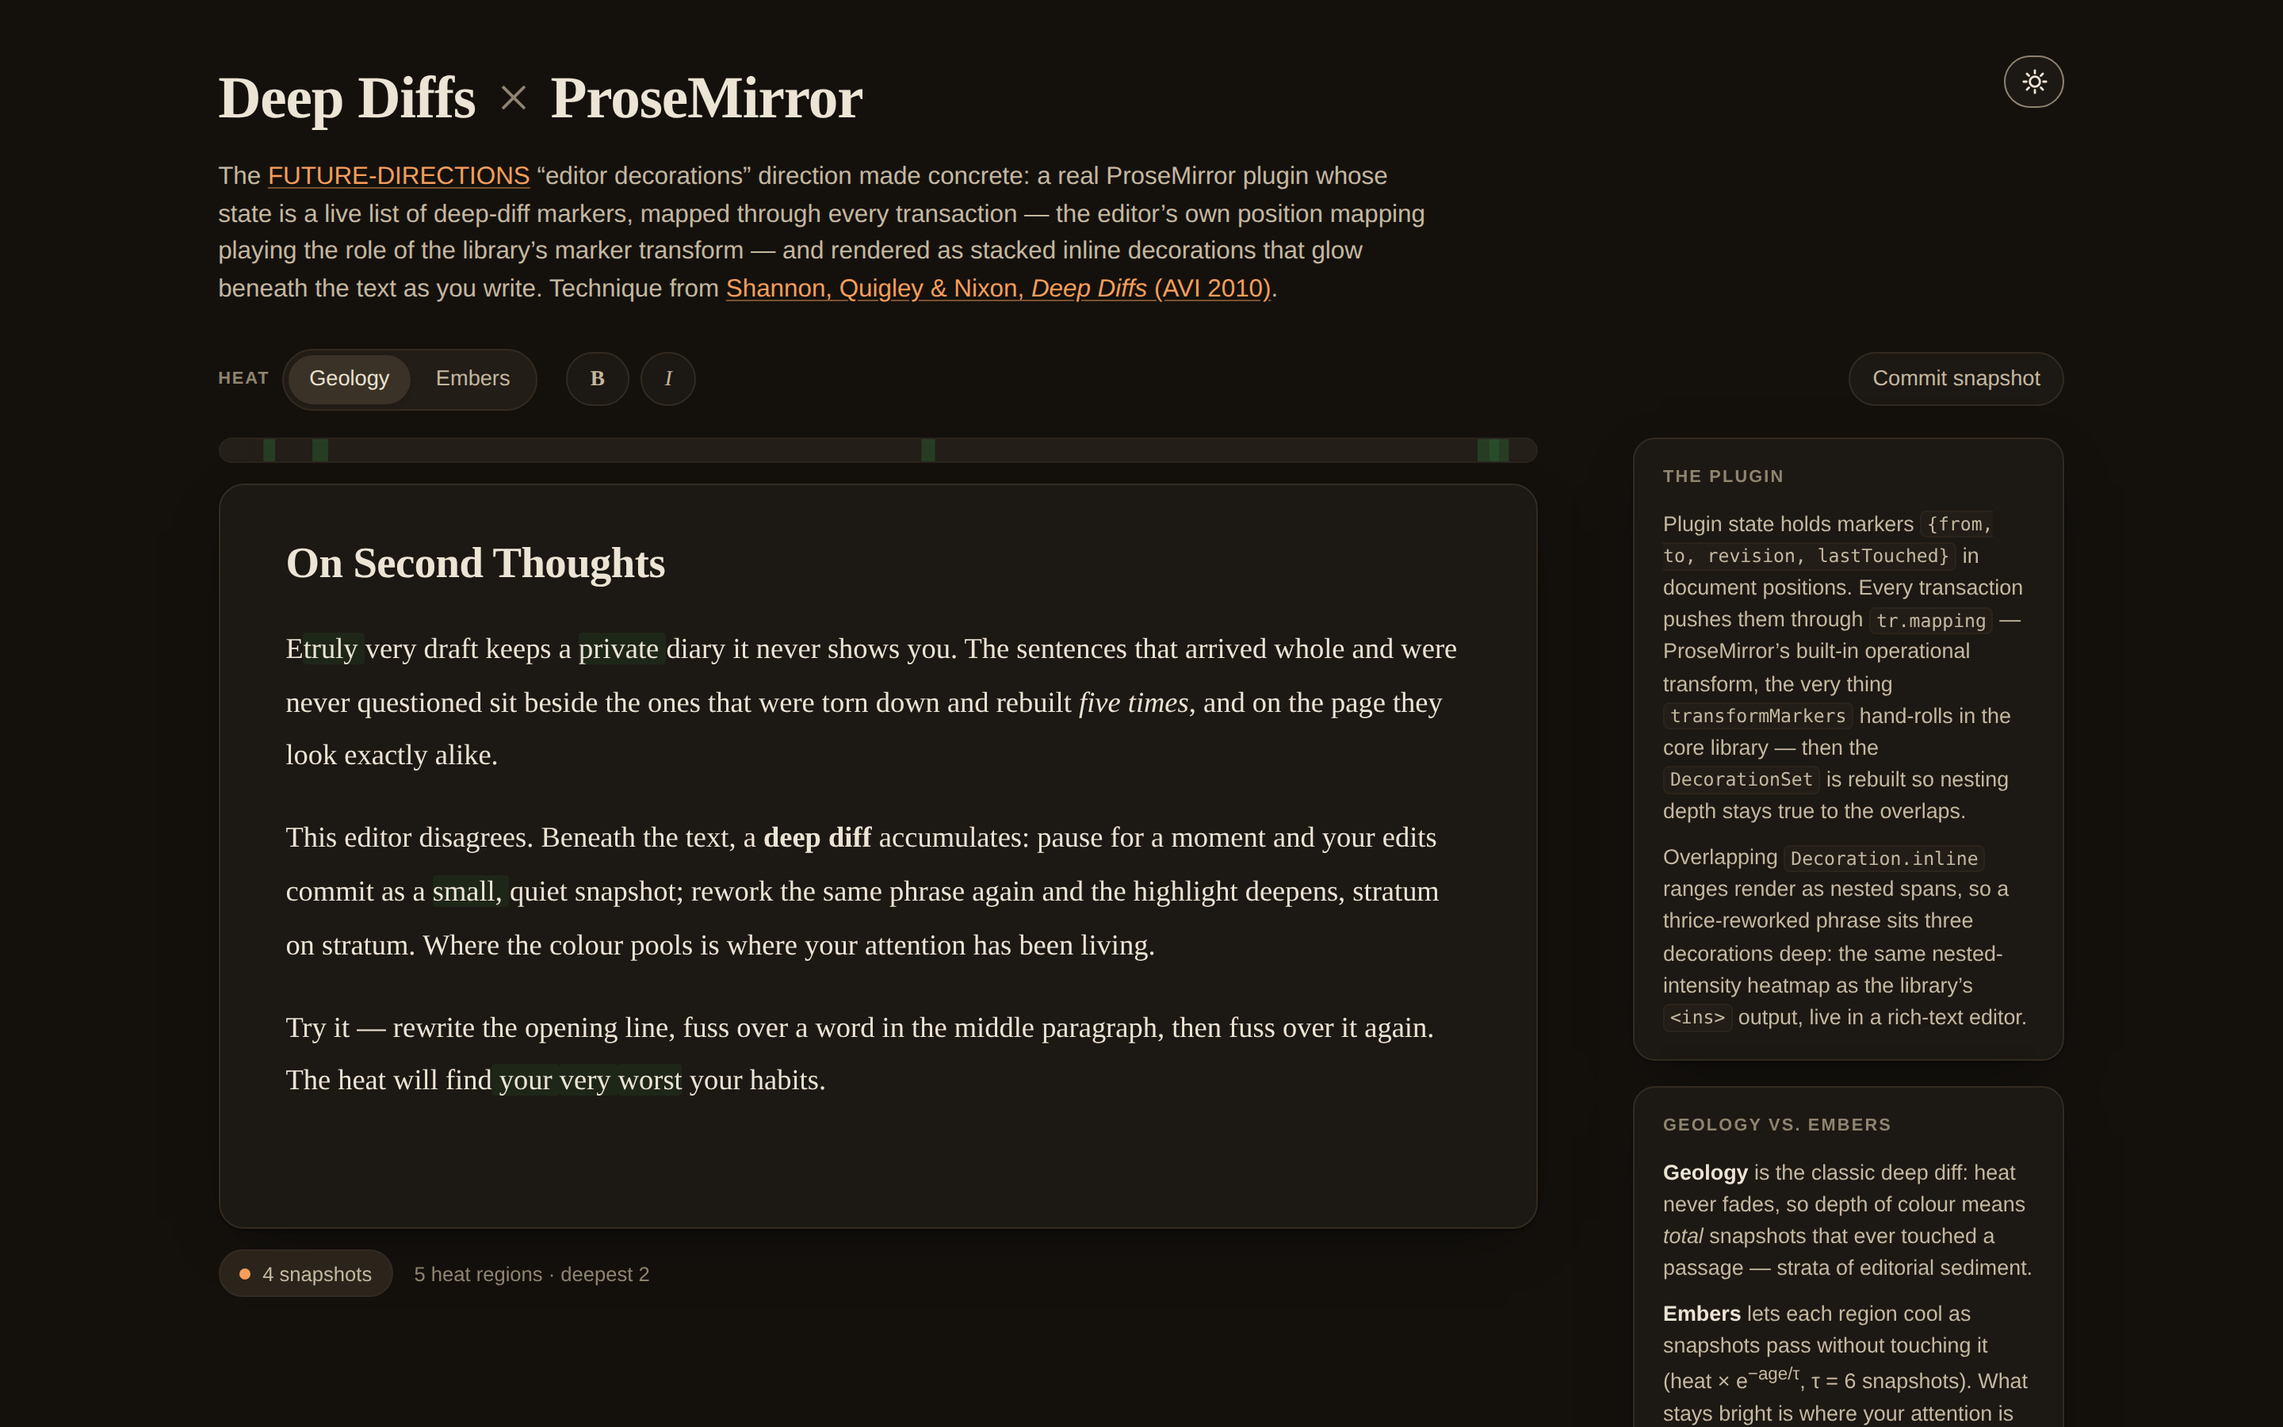
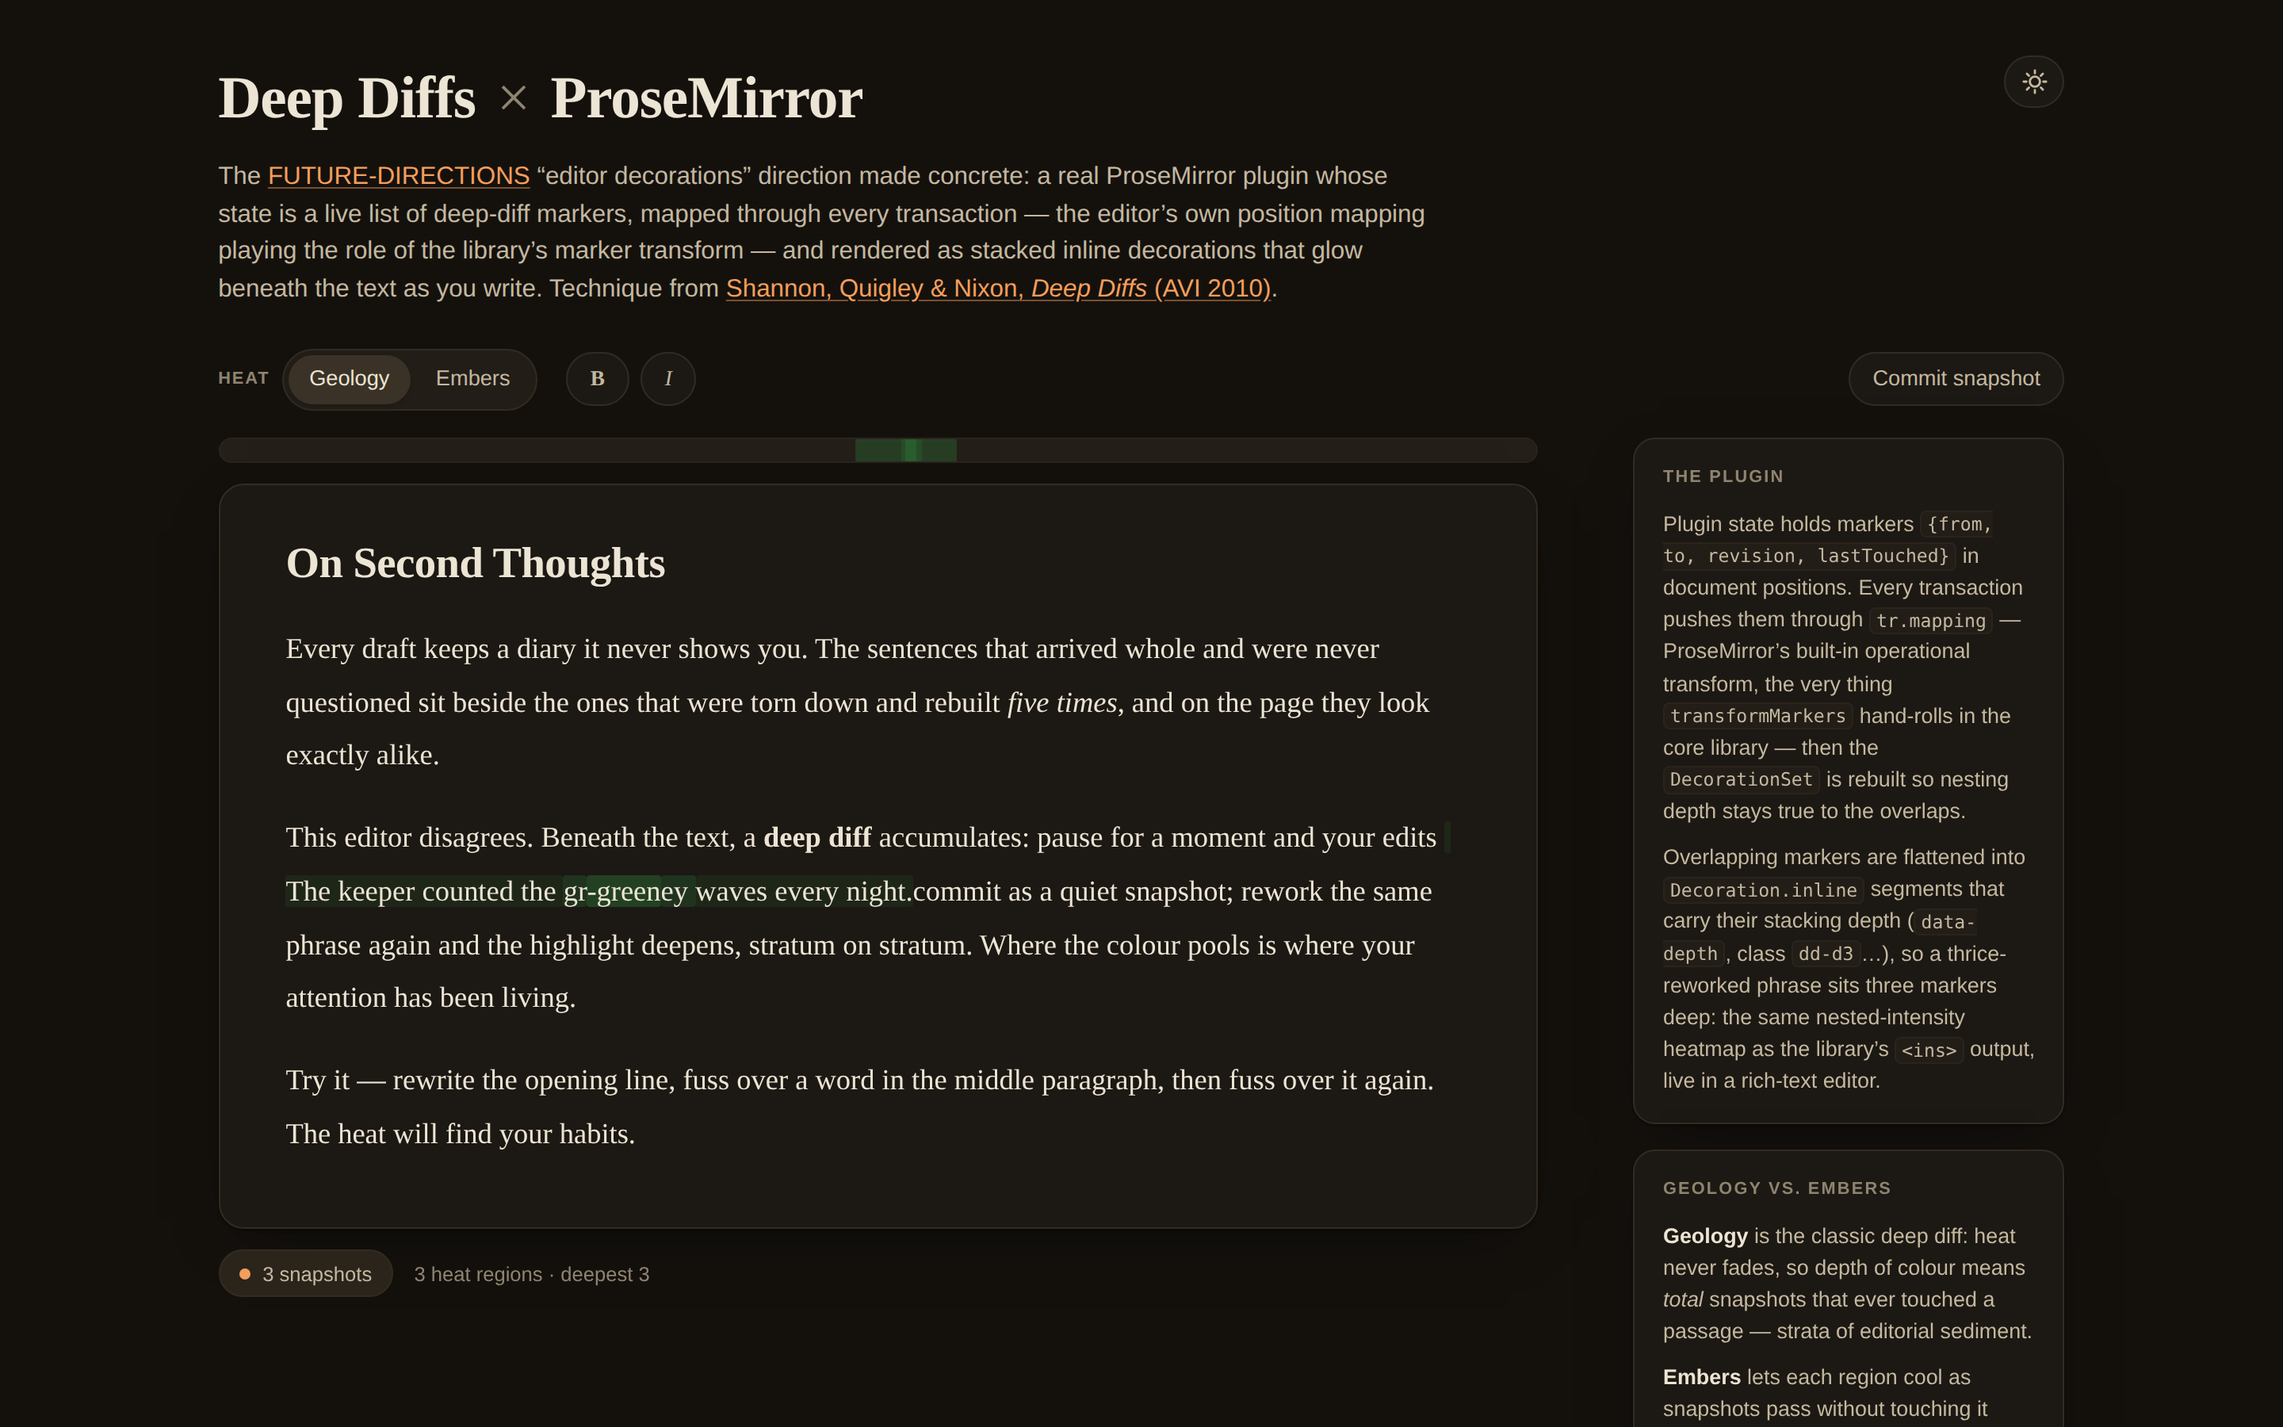
ProseMirror review fixes: fail build on unresolved imports, rebuild stale demo
The build script treated unresolvable prosemirror imports as external
and exited 0, writing a demo that threw ReferenceError at runtime; it
now collects UNRESOLVED_IMPORT warnings and fails with the exact npm
install line. The committed demo artifact was also stale - built from
an older plugin revision using a nested-span depth model that
prosemirror-view flattens away - so it is rebuilt from current source
(verified deterministic, byte-identical across consecutive builds).
Screenshots retaken against the rebuilt artifact.

Review verified the plugin logic itself clean: mapping assoc semantics,
timer lifecycle through destroy(), state immutability, Embers decay
math, heat-segment tiling, and multi-paragraph decoration placement all
held under targeted probes.

Claude-Session: https://claude.ai/code/session_01ViQ4C8tVdJAdZTYnDgMjAu

diff --git a/demos/prosemirror.html b/demos/prosemirror.html
@@ -440,9 +440,10 @@ footer.colophon a { color: inherit; }
         <code>tr.mapping</code> &mdash; ProseMirror&rsquo;s built-in operational transform, the
         very thing <code>transformMarkers</code> hand-rolls in the core library &mdash; then the
         <code>DecorationSet</code> is rebuilt so nesting depth stays true to the overlaps.</p>
-        <p>Overlapping <code>Decoration.inline</code> ranges render as nested spans, so a
-        thrice-reworked phrase sits three decorations deep: the same nested-intensity
-        heatmap as the library&rsquo;s <code>&lt;ins&gt;</code> output, live in a rich-text editor.</p>
+        <p>Overlapping markers are flattened into <code>Decoration.inline</code> segments that
+        carry their stacking depth (<code>data-depth</code>, class <code>dd-d3</code>&hellip;), so a
+        thrice-reworked phrase sits three markers deep: the same nested-intensity heatmap as the
+        library&rsquo;s <code>&lt;ins&gt;</code> output, live in a rich-text editor.</p>
       </div>
 
       <div class="rail-card rail-note">
@@ -14831,8 +14832,18 @@ footer.colophon a { color: inherit; }
    * (PM positions, `to` exclusive — Decoration.inline coordinates), maps it
    * through `tr.mapping` on every transaction — the same StepMaps
    * DecorationSet.map would use — and rebuilds the DecorationSet from it.
-   * Overlapping inline decorations render as nested <span>s in the view, so
-   * the library's `.deep-diff .deep-diff` depth CSS applies unchanged.
+   *
+   * A rendering note: prosemirror-view FLATTENS overlapping inline
+   * decorations — a text run covered by several of them gets one <span> with
+   * merged, deduplicated classes, not nested spans — so the library's
+   * `.deep-diff .deep-diff` descendant-selector trick cannot express depth
+   * here. Instead the marker list (which preserves the full overlap
+   * structure) is flattened into non-overlapping segments at render time,
+   * and every segment carries its stacking depth explicitly: class
+   * `dd-d{depth}` plus `data-depth` (with data-revision / data-last-touched
+   * as the maxima over the markers stacked on that segment) — the same
+   * nesting-depth semantics as the library's renderNested, precomputed
+   * because the DOM can't be asked to count ancestors.
    *
    * ── Snapshot model ───────────────────────────────────────────────────────
    * A "revision" commits when the doc has changed and the user pauses for
@@ -14986,60 +14997,86 @@ footer.colophon a { color: inherit; }
    * Decorations
    * ──────────────────────────────────────────────────────────────────────── */
 
-  /**
-   * Nesting depth of marker `mi` within `markers`: how many markers (itself
-   * included) contain its span. Identical spans tie-break by (revision, index)
-   * so exact re-edits still stack — mirroring the library's renderNested,
-   * where older markers wrap newer ones.
-   */
-  function markerDepth(markers, mi) {
-    const m = markers[mi];
-    let depth = 0;
-    for (let i = 0; i < markers.length; i++) {
-      const o = markers[i];
-      if (o.from > m.from || o.to < m.to) continue;
-      if (o.from === m.from && o.to === m.to) {
-        if (o.revision < m.revision ||
-            (o.revision === m.revision && i <= mi)) depth++;
-      } else {
-        depth++;
-      }
-    }
-    return depth;
-  }
-
   /** Embers temperature for a marker: e^(−age/τ), age in snapshots. */
   function emberHeat(marker, revision, decayTau) {
     const age = Math.max(0, revision - marker.lastTouched);
     return Math.exp(-age / decayTau);
   }
 
+  /**
+   * Flatten the overlapping marker list into non-overlapping segments (the PM
+   * cousin of the library's computeHeatSegments; half-open [from, to) ranges).
+   * `depth` is the number of markers stacked on the segment; revision and
+   * lastTouched are the maxima among them; `ember` is the composited embers
+   * opacity — each covering marker contributes a translucent wash of
+   * temperature e^(−age/τ), composited like the stacked layers it replaces
+   * (prosemirror-view flattens overlapping inline decorations, so the
+   * compounding nested spans would have provided is computed here instead).
+   *
+   * Segments with depth 0 are omitted (nothing to decorate).
+   */
+  function flattenMarkers(markers, size, { revision, decayTau }) {
+    const cuts = new Set();
+    for (const m of markers) {
+      cuts.add(Math.max(0, Math.min(m.from, size)));
+      cuts.add(Math.max(0, Math.min(m.to, size)));
+    }
+    const points = [...cuts].sort((a, b) => a - b);
+
+    const segments = [];
+    for (let i = 0; i < points.length - 1; i++) {
+      const from = points[i];
+      const to = points[i + 1];
+      let depth = 0;
+      let rev = 0;
+      let last = 0;
+      let clear = 1; // Π(1 − wash_i): what shows through the stacked washes
+      for (const m of markers) {
+        if (m.from <= from && m.to >= to && m.to > m.from) {
+          depth++;
+          rev = Math.max(rev, m.revision);
+          last = Math.max(last, m.lastTouched);
+          clear *= 1 - 0.38 * emberHeat(m, revision, decayTau);
+        }
+      }
+      if (depth > 0) {
+        segments.push({
+          from, to, depth,
+          revision: rev,
+          lastTouched: last,
+          ember: Math.min(1 - clear, 0.8) // cap so text stays readable
+        });
+      }
+    }
+    return segments;
+  }
+
   function buildDecorations(doc, s) {
     const { markers, pending, revision, heatMode } = s;
     const { className, maxDepth, decayTau } = s.options;
     const modeClass = heatMode === 'recency' ? 'dd-recency' : 'dd-depth';
+    const size = doc.content.size;
     const decos = [];
 
-    for (let i = 0; i < markers.length; i++) {
-      const m = markers[i];
-      if (m.to <= m.from) continue;
-      const depth = Math.min(markerDepth(markers, i), maxDepth);
+    for (const seg of flattenMarkers(markers, size, { revision, decayTau })) {
+      const depth = Math.min(seg.depth, maxDepth);
       const attrs = {
-        class: `${className} ${modeClass}`,
-        'data-revision': String(m.revision),
-        'data-last-touched': String(m.lastTouched),
-        'data-depth': String(depth)
+        class: `${className} ${modeClass} dd-d${depth}`,
+        'data-revision': String(seg.revision),
+        'data-last-touched': String(seg.lastTouched),
+        'data-depth': String(seg.depth)
       };
       if (heatMode === 'recency') {
-        // Per-marker temperature; overlap compounds visually because nested
-        // decoration <span>s each apply their own translucent background.
-        attrs.style = `--dd-heat:${emberHeat(m, revision, decayTau).toFixed(3)}`;
+        attrs.style = `--dd-heat:${seg.ember.toFixed(3)}`;
       }
-      decos.push(Decoration.inline(m.from, m.to, attrs));
+      decos.push(Decoration.inline(seg.from, seg.to, attrs));
     }
 
     // Uncommitted typing shows as a whisper-light provisional tint until the
-    // pause commits it into a real marker.
+    // pause commits it into a real marker. Rendered as a background-image so
+    // it layers over (rather than fights) a committed segment's
+    // background-color when prosemirror-view merges the two decorations'
+    // classes onto one span.
     for (const r of pending) {
       if (r.to > r.from) {
         decos.push(Decoration.inline(r.from, r.to, { class: `${className} dd-pending` }));
@@ -15221,44 +15258,33 @@ footer.colophon a { color: inherit; }
     const { markers, revision, heatMode } = s;
     const { maxDepth, decayTau } = s.options;
 
-    const cuts = new Set([0, size]);
-    for (const m of markers) {
-      cuts.add(Math.max(0, Math.min(m.from, size)));
-      cuts.add(Math.max(0, Math.min(m.to, size)));
-    }
-    const points = [...cuts].sort((a, b) => a - b);
+    // Presentation policy: depth mode ramps linearly to maxDepth; embers use
+    // the composited wash opacity (rescaled to fill 0..1 at its cap).
+    const heatOf = (seg) => heatMode === 'recency'
+      ? Math.min(1, seg.ember / 0.8)
+      : Math.min(seg.depth, maxDepth) / maxDepth;
 
+    const heated = flattenMarkers(markers, size, { revision, decayTau });
+
+    // Tile the whole doc: fill the gaps with depth-0 segments so the result
+    // covers [0, doc.content.size) exactly, like the library's version.
     const segments = [];
-    for (let i = 0; i < points.length - 1; i++) {
-      const from = points[i];
-      const to = points[i + 1];
-      let depth = 0;
-      let rev = 0;
-      let last = 0;
-      let ember = 0;
-      for (const m of markers) {
-        if (m.from <= from && m.to >= to) {
-          depth++;
-          rev = Math.max(rev, m.revision);
-          last = Math.max(last, m.lastTouched);
-          ember = Math.max(ember, emberHeat(m, revision, decayTau));
-        }
+    let pos = 0;
+    const pushGap = (to) => {
+      if (to > pos) {
+        segments.push({ from: pos, to, depth: 0, revision: 0, lastTouched: 0, heat: 0 });
       }
-      // Presentation policy: depth mode ramps linearly to maxDepth; embers use
-      // the hottest covering marker, gently weighted by depth so much-worked
-      // passages read warmer than one-off fresh edits.
-      const heat = depth === 0 ? 0 : heatMode === 'recency'
-        ? ember * (0.55 + 0.45 * Math.min(depth, maxDepth) / maxDepth)
-        : Math.min(depth, maxDepth) / maxDepth;
-
-      const prevSeg = segments[segments.length - 1];
-      if (prevSeg && prevSeg.depth === depth && prevSeg.revision === rev &&
-          prevSeg.lastTouched === last && prevSeg.heat === heat) {
-        prevSeg.to = to;
-      } else {
-        segments.push({ from, to, depth, revision: rev, lastTouched: last, heat });
-      }
+    };
+    for (const seg of heated) {
+      pushGap(seg.from);
+      segments.push({
+        from: seg.from, to: seg.to, depth: seg.depth,
+        revision: seg.revision, lastTouched: seg.lastTouched,
+        heat: heatOf(seg)
+      });
+      pos = seg.to;
     }
+    pushGap(size);
     return segments;
   }
 
@@ -15268,16 +15294,17 @@ footer.colophon a { color: inherit; }
 
   /**
    * Generate CSS for the plugin's decorations. A small generator rather than a
-   * re-export of the library's getDefaultStyles: bundling src/deep-diff.js
-   * would drag diff-match-patch along for CSS the plugin never diffs with, and
-   * the plugin needs two extra families (embers, provisional). The structure
-   * is the same idea, made theme-aware: nesting-depth selectors exactly like
-   * getDefaultStyles' `.deep-diff .deep-diff` ramp, but built on a single hot
-   * hue in `--dd-hot` (and `--dd-ember`) so host pages retheme it — light and
-   * dark — by setting two custom properties.
+   * re-export of the library's getDefaultStyles for two structural reasons:
+   * getDefaultStyles' `.deep-diff .deep-diff` descendant ramp assumes nested
+   * tags, which prosemirror-view's flattened decoration spans never produce
+   * (depth arrives as a `dd-d{n}` class instead), and bundling src/deep-diff.js
+   * would drag diff-match-patch along for CSS the plugin never diffs with.
+   * The idea is the same ramp, made theme-aware: intensities are mixes of a
+   * single hot hue in `--dd-hot` (embers: `--dd-ember`), so host pages retheme
+   * it — light and dark — by setting two custom properties.
    *
    * @param {Object} [options]
-   * @param {number} [options.maxDepth=6] - Deepest nesting level to style.
+   * @param {number} [options.maxDepth=6] - Deepest stacking level to style.
    * @param {string} [options.className='deep-diff'] - Base decoration class.
    * @returns {string} CSS
    */
@@ -15286,21 +15313,21 @@ footer.colophon a { color: inherit; }
     let css = '';
     css += `${base} { border-radius: 2px; transition: background-color 0.45s ease; }\n`;
 
-    // Geology ramp: each nesting level mixes more of the hot hue in. Nested
-    // decoration spans mean depth-d text matches d stacked selectors.
+    // Geology ramp: depth-d segments mix more of the hot hue in.
     const stops = [13, 24, 36, 48, 60, 72];
     for (let d = 1; d <= maxDepth; d++) {
       const pct = stops[Math.min(d, stops.length) - 1];
-      const sel = '.dd-depth' + ' .dd-depth'.repeat(d - 1);
-      css += `${sel} { background-color: color-mix(in srgb, var(--dd-hot, #2f9e44) ${pct}%, transparent); }\n`;
+      css += `.dd-depth.dd-d${d} { background-color: color-mix(in srgb, var(--dd-hot, #2f9e44) ${pct}%, transparent); }\n`;
     }
 
-    // Embers: per-marker temperature in --dd-heat (0..1); overlapping markers
-    // compound because each nested span applies its own translucent wash.
-    css += `.dd-recency { background-color: color-mix(in srgb, var(--dd-ember, var(--dd-hot, #e8590c)) calc(var(--dd-heat, 0) * 44%), transparent); }\n`;
+    // Embers: composited wash opacity in --dd-heat (0..1), computed by the
+    // plugin from every marker stacked on the segment.
+    css += `.dd-recency { background-color: color-mix(in srgb, var(--dd-ember, var(--dd-hot, #e8590c)) calc(var(--dd-heat, 0) * 100%), transparent); }\n`;
 
-    // Provisional tint for uncommitted typing.
-    css += `.dd-pending { background-color: color-mix(in srgb, var(--dd-hot, #2f9e44) 8%, transparent); }\n`;
+    // Provisional tint for uncommitted typing. background-image, not -color:
+    // it must layer over a committed segment's colour when prosemirror-view
+    // merges both decorations' classes onto one span.
+    css += `.dd-pending { background-image: linear-gradient(color-mix(in srgb, var(--dd-hot, #2f9e44) 9%, transparent), color-mix(in srgb, var(--dd-hot, #2f9e44) 9%, transparent)); }\n`;
 
     return css;
   }
